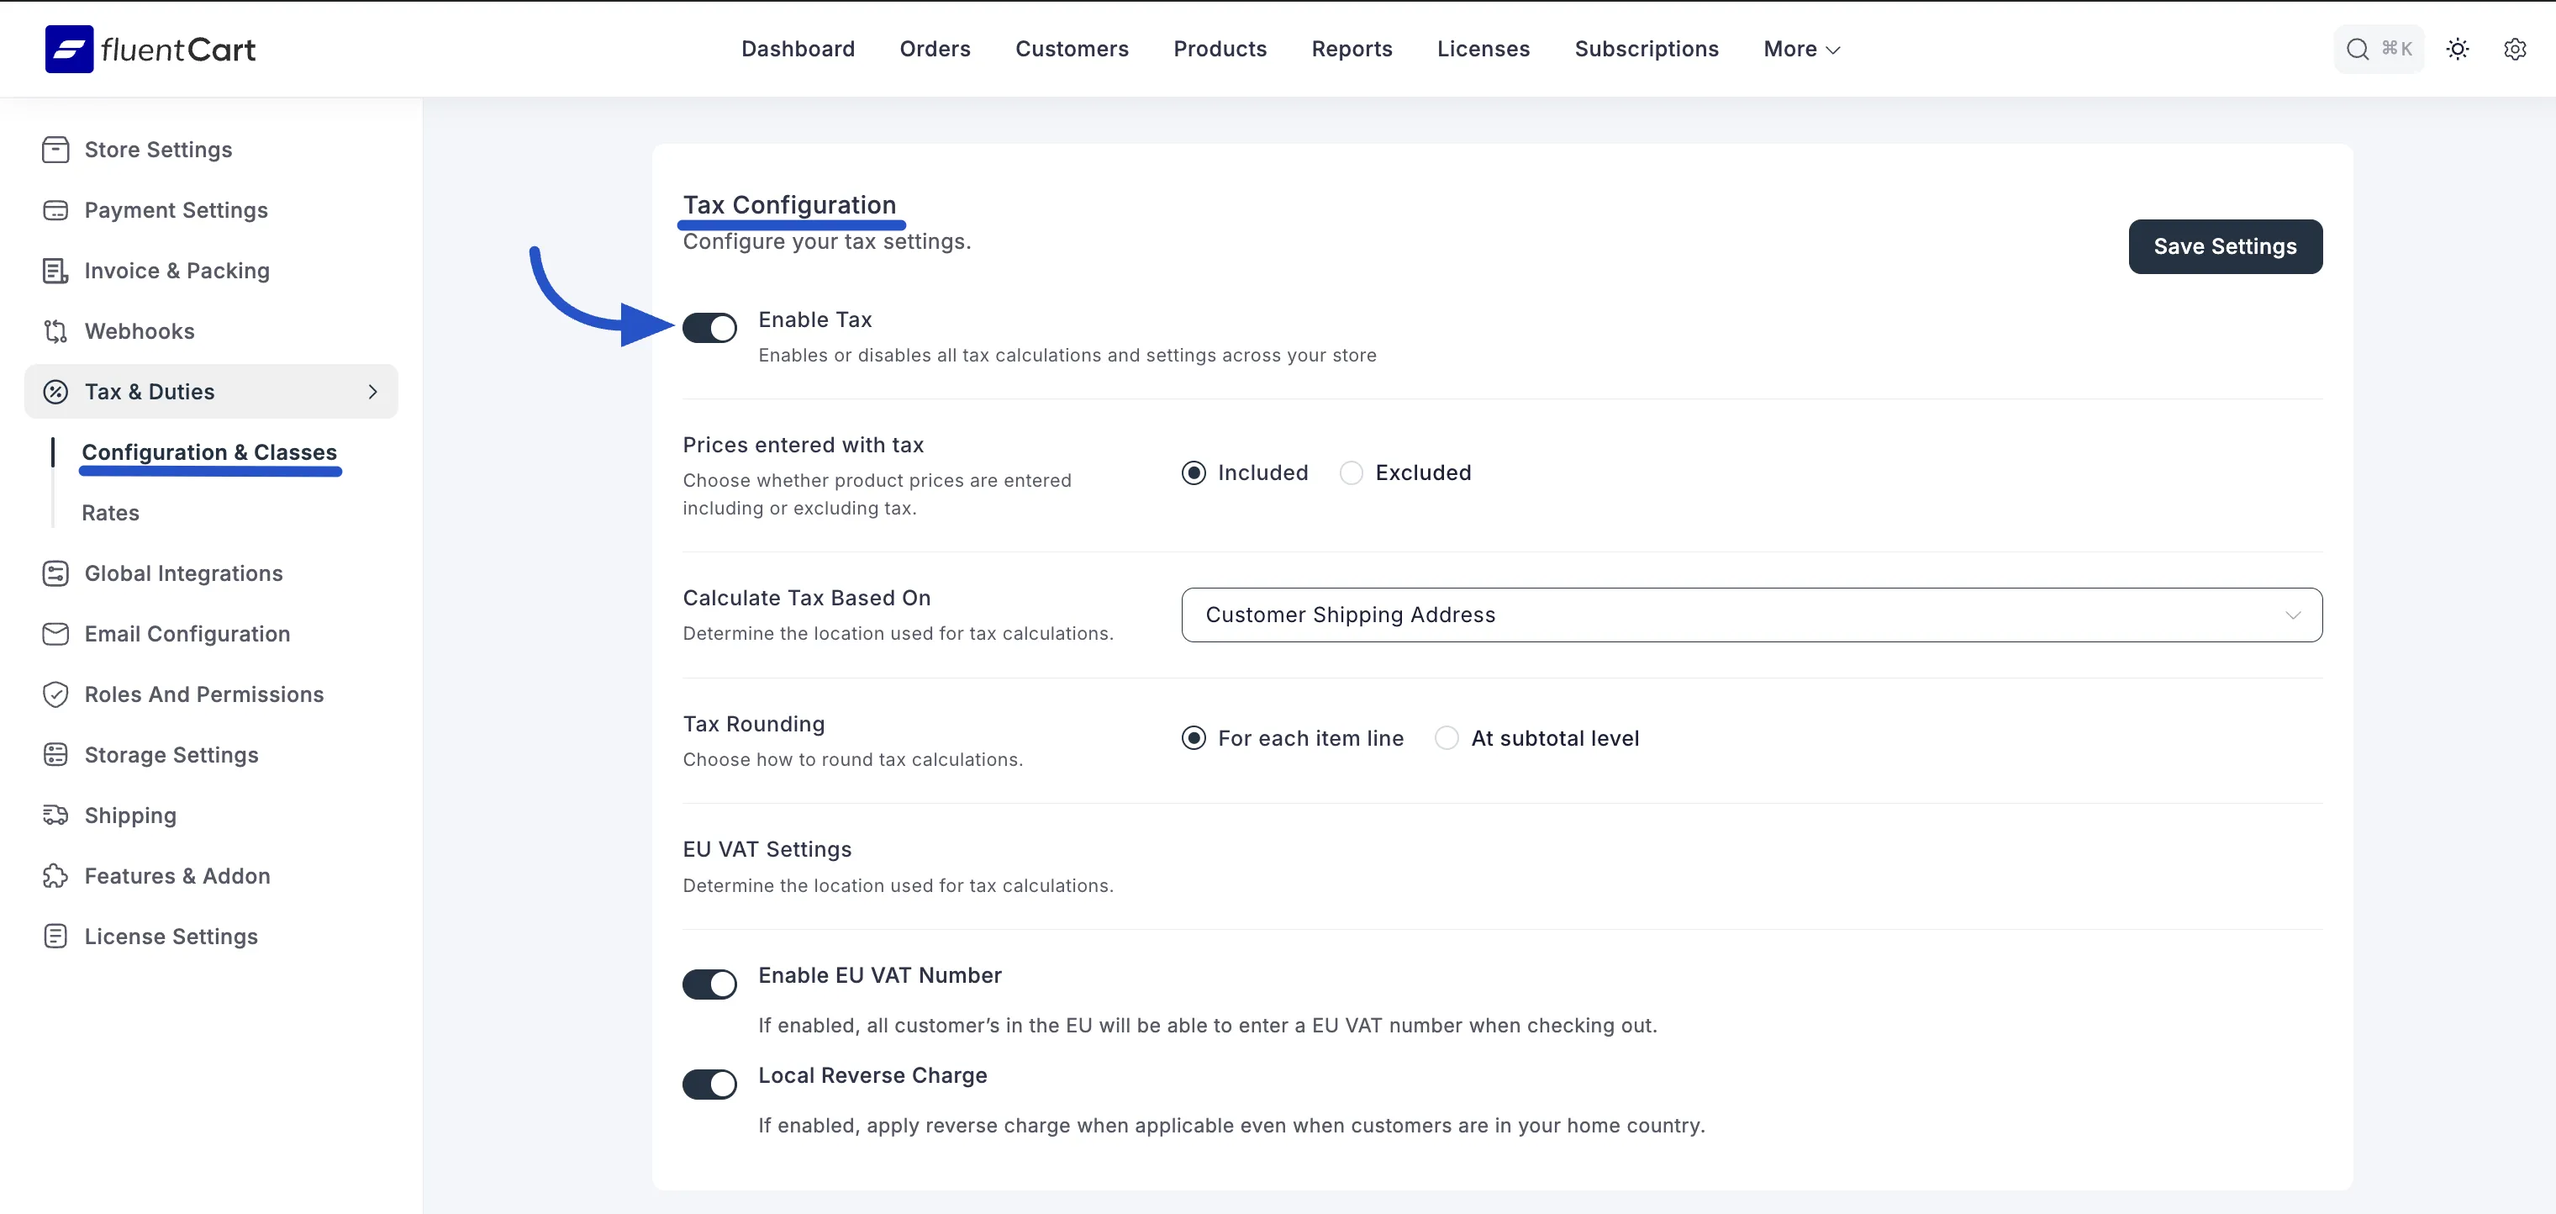
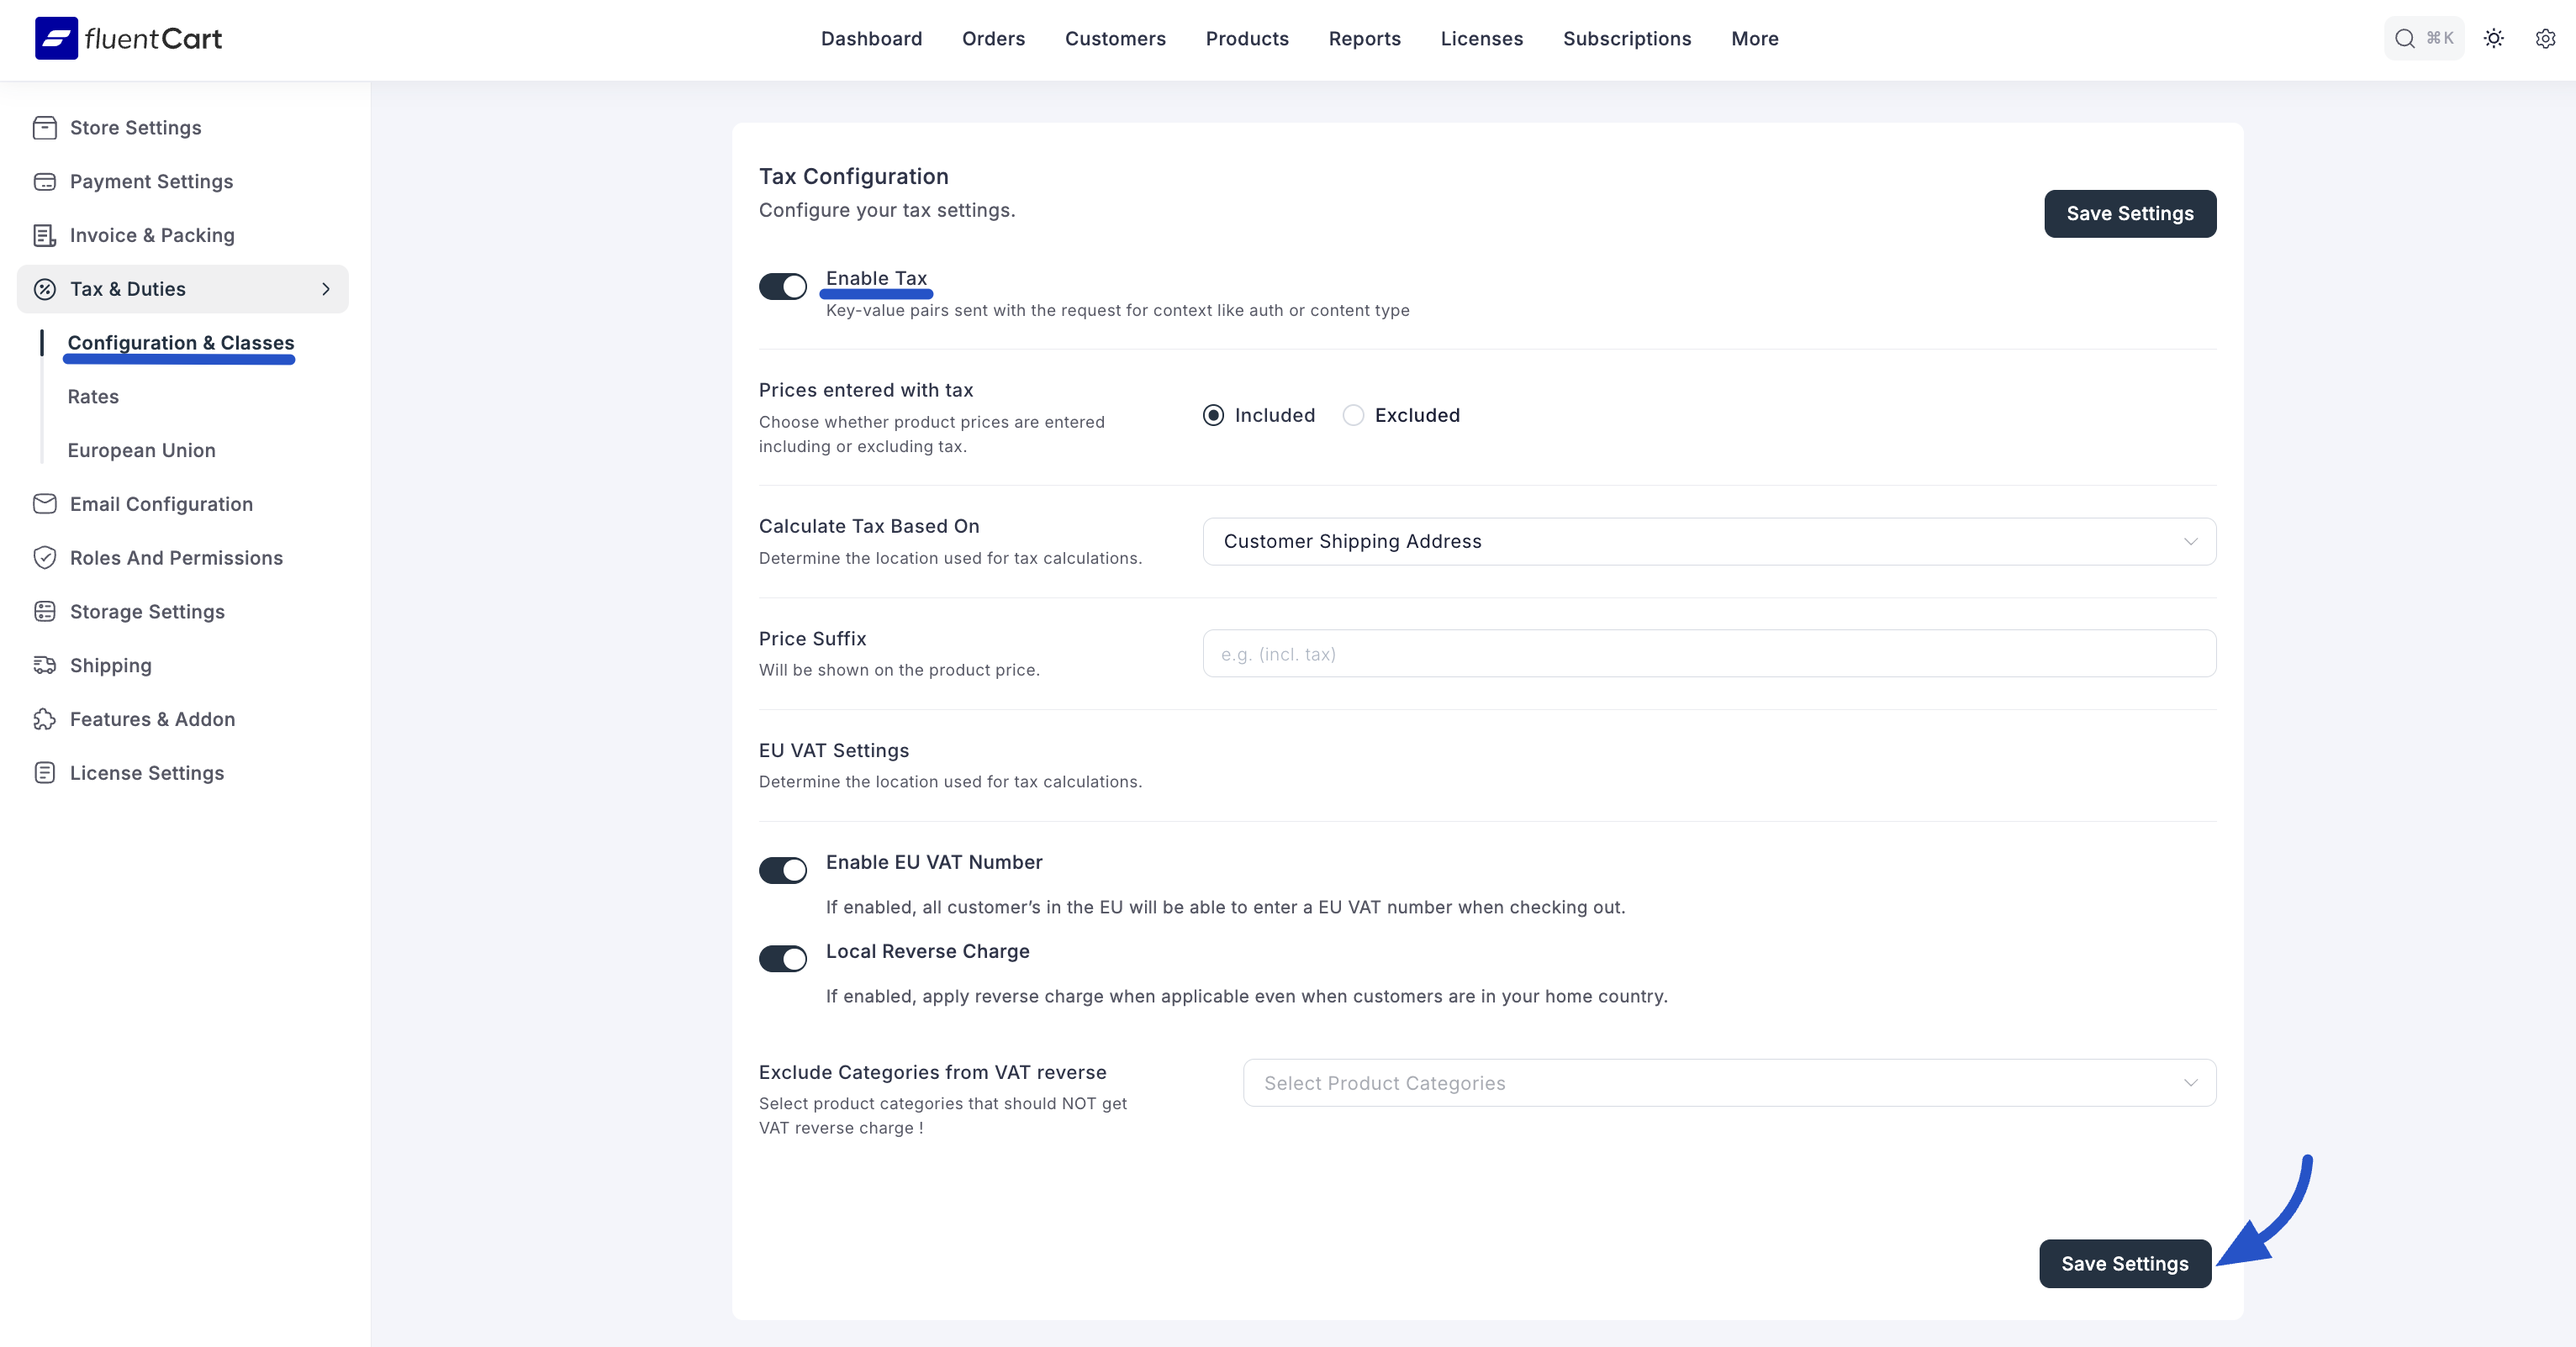
update

diff --git a/guide/tax-&-duties/configuration-and-classes.md b/guide/tax-&-duties/configuration-and-classes.md
@@ -1,77 +1,55 @@
 # Configuring Tax Settings & Classes
 
-FluentCart’s tax management system is designed to be both powerful and easy to use, helping you apply accurate tax calculations at checkout and stay compliant with regional laws. This guide covers the main tax settings, options for EU VAT, and how to use **Tax Classes** to manage different tax rates for your products.
+The **Configuration & Classes** screen is the control center for your store's entire tax system. Here, you will set the fundamental rules for how taxes are calculated, manage EU VAT compliance for B2B sales, and create **Tax Classes** to handle different tax rates for different types of products.
 
-## Accessing Tax & Duties Settings
+Getting these settings right is the first step to ensuring your tax calculations are accurate.
+
+### Accessing Tax & Duties Settings
 
 1.  From your WordPress dashboard, navigate to **FluentCart Pro** > **Settings**.
 2.  Click on the **Tax & Duties** tab from the left-hand menu.
 3.  Select the **Configuration & Classes** sub-menu.
 
-## Tax Configuration
+### Tax Configuration
 
-This section contains the fundamental rules that determine how taxes are calculated across your entire store. Getting these settings right is the first step to ensuring your tax calculations are accurate.
+This section contains the main rules that determine how taxes are calculated across your store.
 
-* **Enable Tax:** This is the master switch for your store's tax system. If your business is not required to collect taxes, you can leave this disabled. When enabled, FluentCart will begin applying your tax rules at checkout.
-* **Prices entered with tax:** This crucial setting tells FluentCart whether the prices you’ve set for your products already include tax.
-    * **Included:** Choose this if your product prices are **tax-inclusive (gross pricing)**. This is common in regions like the EU, where prices shown to customers must be the final amount.
-    * **Excluded:** Choose this if your product prices are **tax-exclusive (net pricing)**. FluentCart will calculate and add the tax on top of the product price at checkout. This is common in regions like the US.
-* **Calculate Tax Based On:** Tax rates often depend on a customer's location. This setting determines which address FluentCart uses for its calculations.
-    * **Options:** You can choose **Customer Shipping Address**, **Customer Billing Address**, or **Store Base Address**. For digital products, the billing address is often used, while for physical goods, the shipping address is typically required.
-* **Tax Rounding:**
-    This setting controls how FluentCart handles decimal points during tax calculations. Since tax calculations can often result in numbers with many decimal places, this option determines how that number is rounded to the final cent. For example, a calculated tax of $10.4990 would be automatically rounded up to $10.50.
-    * **For each item line:** This option calculates and rounds the tax for each product separately before adding them up to get the final tax total. This method is often required for strict accounting accuracy on a per-item basis.
-    * **At subtotal level:** This option calculates the tax on the entire order's subtotal and then rounds the final result just once. This often results in a final order total that looks cleaner and is easier for customers to understand.
+* **Enable Tax:** This is the master switch for your store's tax system. When enabled, FluentCart will begin applying your tax rules at checkout.
+* **Prices entered with tax:** This tells FluentCart whether your product prices already include tax (**Included**) or if tax should be added at checkout (**Excluded**).
+* **Calculate Tax Based On:** This determines which customer address is used for tax calculations: **Customer Shipping Address**, **Customer Billing Address**, or **Store Base Address**.
+* **Price Suffix:** This allows you to add a short piece of text that will be displayed next to your product prices on the storefront. For example, you could add `+ VAT` or `(incl. Tax)` to provide clarity for your customers.
+
+![Configuration and Classes](/guide/public/images/tax/configuration-classes/configuration-classes-1.webp)
 
 ### EU VAT Settings
 
 This section is specifically for handling European Union VAT regulations for your business-to-business (B2B) sales.
 
-* **Enable EU VAT Number:** When enabled, this adds a VAT number field to your checkout page for customers in the EU. B2B customers can enter their valid VAT ID to have the VAT removed from their order, a process known as a **"reverse charge."**
-* **Local Reverse Charge:** In some specific cases, reverse charge rules can apply even if the business customer is in your own country. Enabling this feature will ensure FluentCart handles these transactions correctly by removing the VAT and marking the order appropriately.
-::: info
-The EU VAT settings are designed to automate the reverse-charge mechanism for B2B sales, helping you stay compliant with complex international tax laws.
-:::
+* **Enable EU VAT Number:** When enabled, this adds a VAT number field to your checkout page for customers in the EU. If a customer provides a valid VAT ID, the VAT will be removed from their order (a **"reverse charge"**).
+* **Local Reverse Charge:** In some cases, reverse charge rules can apply even if the business customer is in your own country. Enable this to ensure FluentCart handles these specific transactions correctly.
+* **Exclude Categories from VAT reverse:** This allows you to select specific product categories that should always be charged VAT, even if a customer provides a valid VAT ID. This is useful for certain types of products or services that are not eligible for the reverse charge mechanism.
 
-![Configuration and Classes](/guide/public/images/tax/configuration-classes/configuration-classes-1.webp)
+After configuring these settings, be sure to click the **Save Settings** button.
 
 ### Managing Tax Classes
 
-**Tax Classes** are the best way to manage different tax rates for different types of products. This is essential if you sell items that are not all taxed at the same rate (e.g., standard-rate electronics vs. zero-rated books). Tax Classes allow you to group these products to ensure the correct tax is applied every time.
-
-#### Default Tax Classes
-
-FluentCart includes a few common classes to get you started:
-
-* **Standard:** The default tax class for most products.
-* **Reduced:** For items that have a lower tax rate.
-* **Zero:** For tax-exempt products.
-
-![Configuration and Classes](/guide/public/images/tax/configuration-classes/configuration-classes-2.webp)
+**Tax Classes** are the best way to group products that have similar tax treatments. This is essential if you sell items that are not all taxed at the same rate (e.g., standard-rate electronics vs. zero-rated books).
 
 #### Adding a New Tax Class
 
-You can create custom classes to better organize your products and handle complex tax rules.
+In the **Existing Tax Classes** section, click the **Add Tax Class** button.
 
-1.  In the **Existing Tax Classes** section, click the **Add Tax Class** button.
-2.  Fill in the details:
+![Configuration and Classes](/guide/public/images/tax/configuration-classes/configuration-classes-2.webp)
+
+1.  A pop-up window will appear. Fill in the details:
     * **Tax Class Name:** A clear name, like "Digital Services" or "Clothing."
-    * **Priority:** A number (0-10) that determines the order in which tax classes are applied. **Higher numbers have a higher priority** and will be applied first. This is useful for creating override rules.
-    * **Product Category (Optional):** You can link this tax class directly to one or more product categories. Any product in the selected category will automatically use this tax class.
+    * **Priority:** A number (0-10) that determines the order in which tax classes are applied. **Higher numbers have a higher priority** and will be applied first.
+    * **Product Category (Optional):** You can link this tax class directly to one or more product categories. When you do, any product in the selected category will automatically use this tax class.
     * **Description:** An internal note for your reference.
+2.  Click **Create**.
 
 ![Configuration and Classes](/guide/public/images/tax/configuration-classes/configuration-classes-3.webp)
 
-::: info 
-For a tax class to work correctly, you must complete two key steps: first, assign this class to a product (either by linking it to a Product Category here or by editing an individual product), and second, make sure you set a specific Tax Rate for this class in the country's [regional settings](/guide/tax-&-duties/tax-rates.md) where it applies.
-:::
+> **Info:** For a tax class to work correctly, you must complete two key steps: first, assign this class to a product (either by linking it to a **Product Category** here or by editing an individual product), and second, make sure you set a specific **Tax Rate** for this class in that country's regional settings.
 
-#### Example Use Case
-
-Imagine you sell clothing that has a standard tax rate, but you are running a special promotion on a specific category of t-shirts that should be tax-exempt.
-
-1.  You would create a new tax class called **"T-Shirt Promo - Zero Rate."**
-2.  You would set its **Priority** to 10 (the highest).
-3.  You would link it to the **"Promotional T-Shirts"** product category.
-
-Your general clothing items would remain in the **Standard** tax class (which has a lower priority, e.g., 0). Now, because of the high priority, any t-shirt in the "Promotional T-Shirts" category will be tax-exempt, while all other clothing will correctly use the standard tax rate.
+Your new tax class will now appear in the list, where you can **Edit** or **Delete** it at any time using the action icons.
